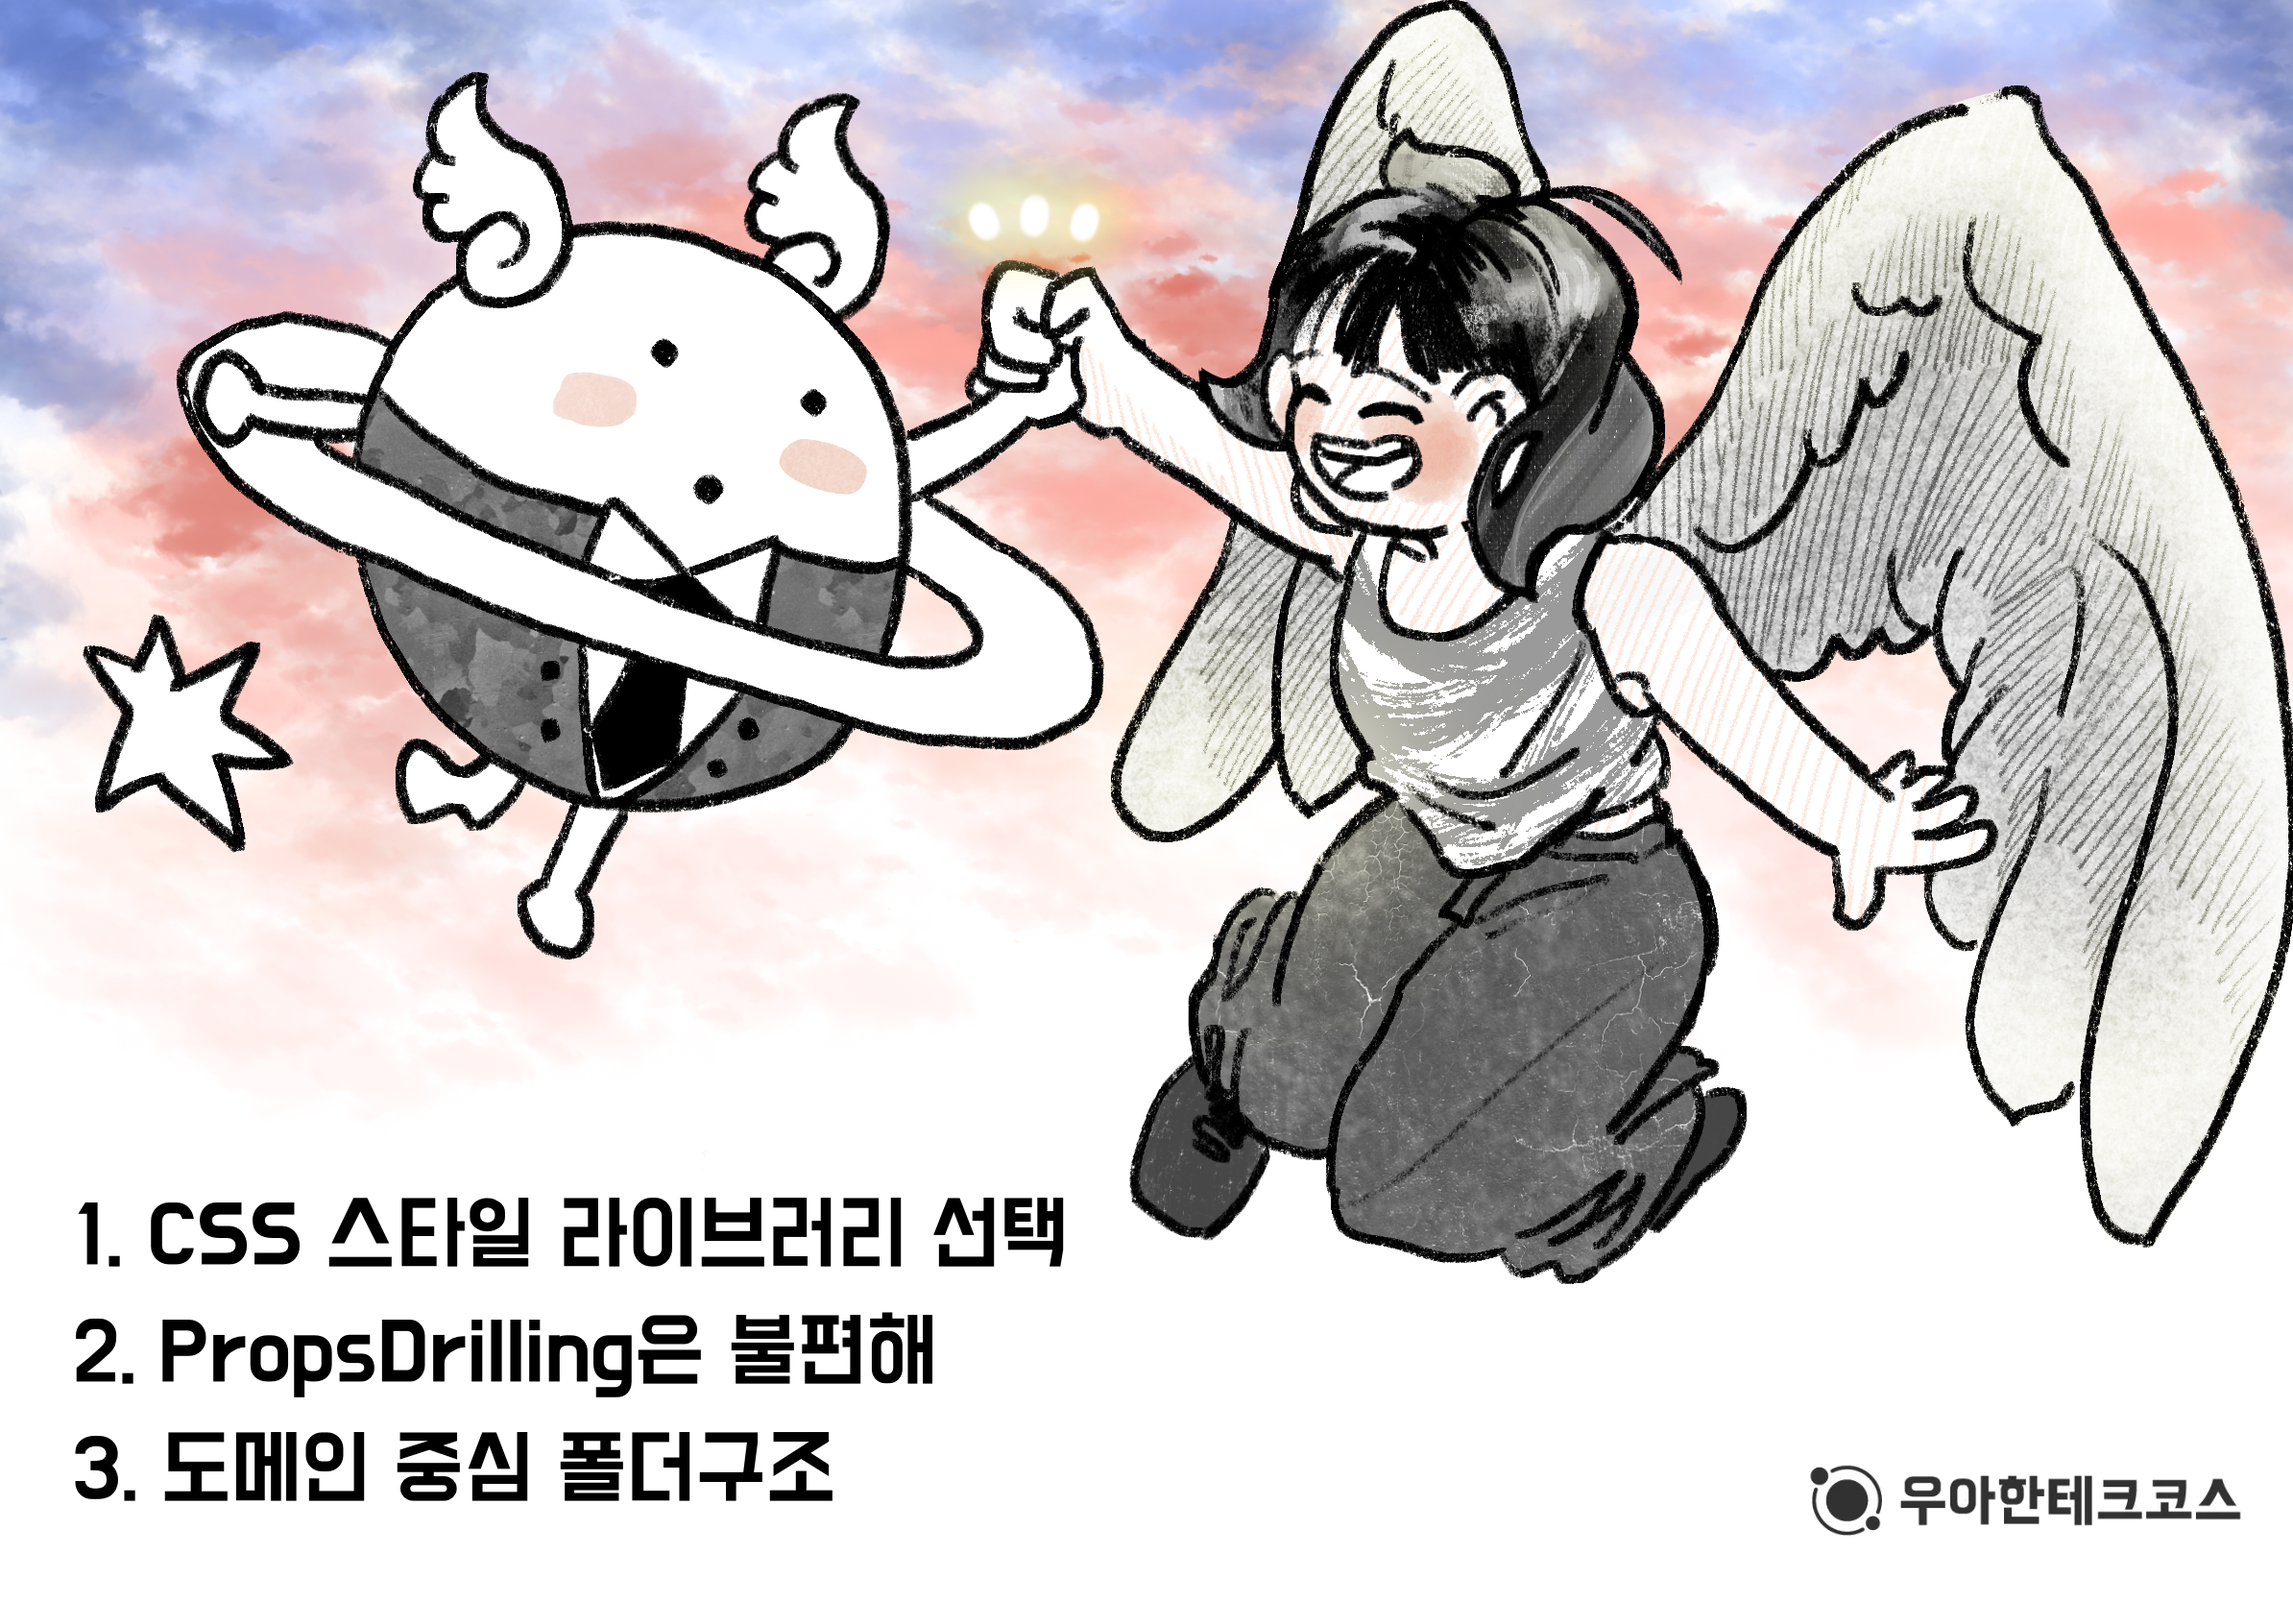
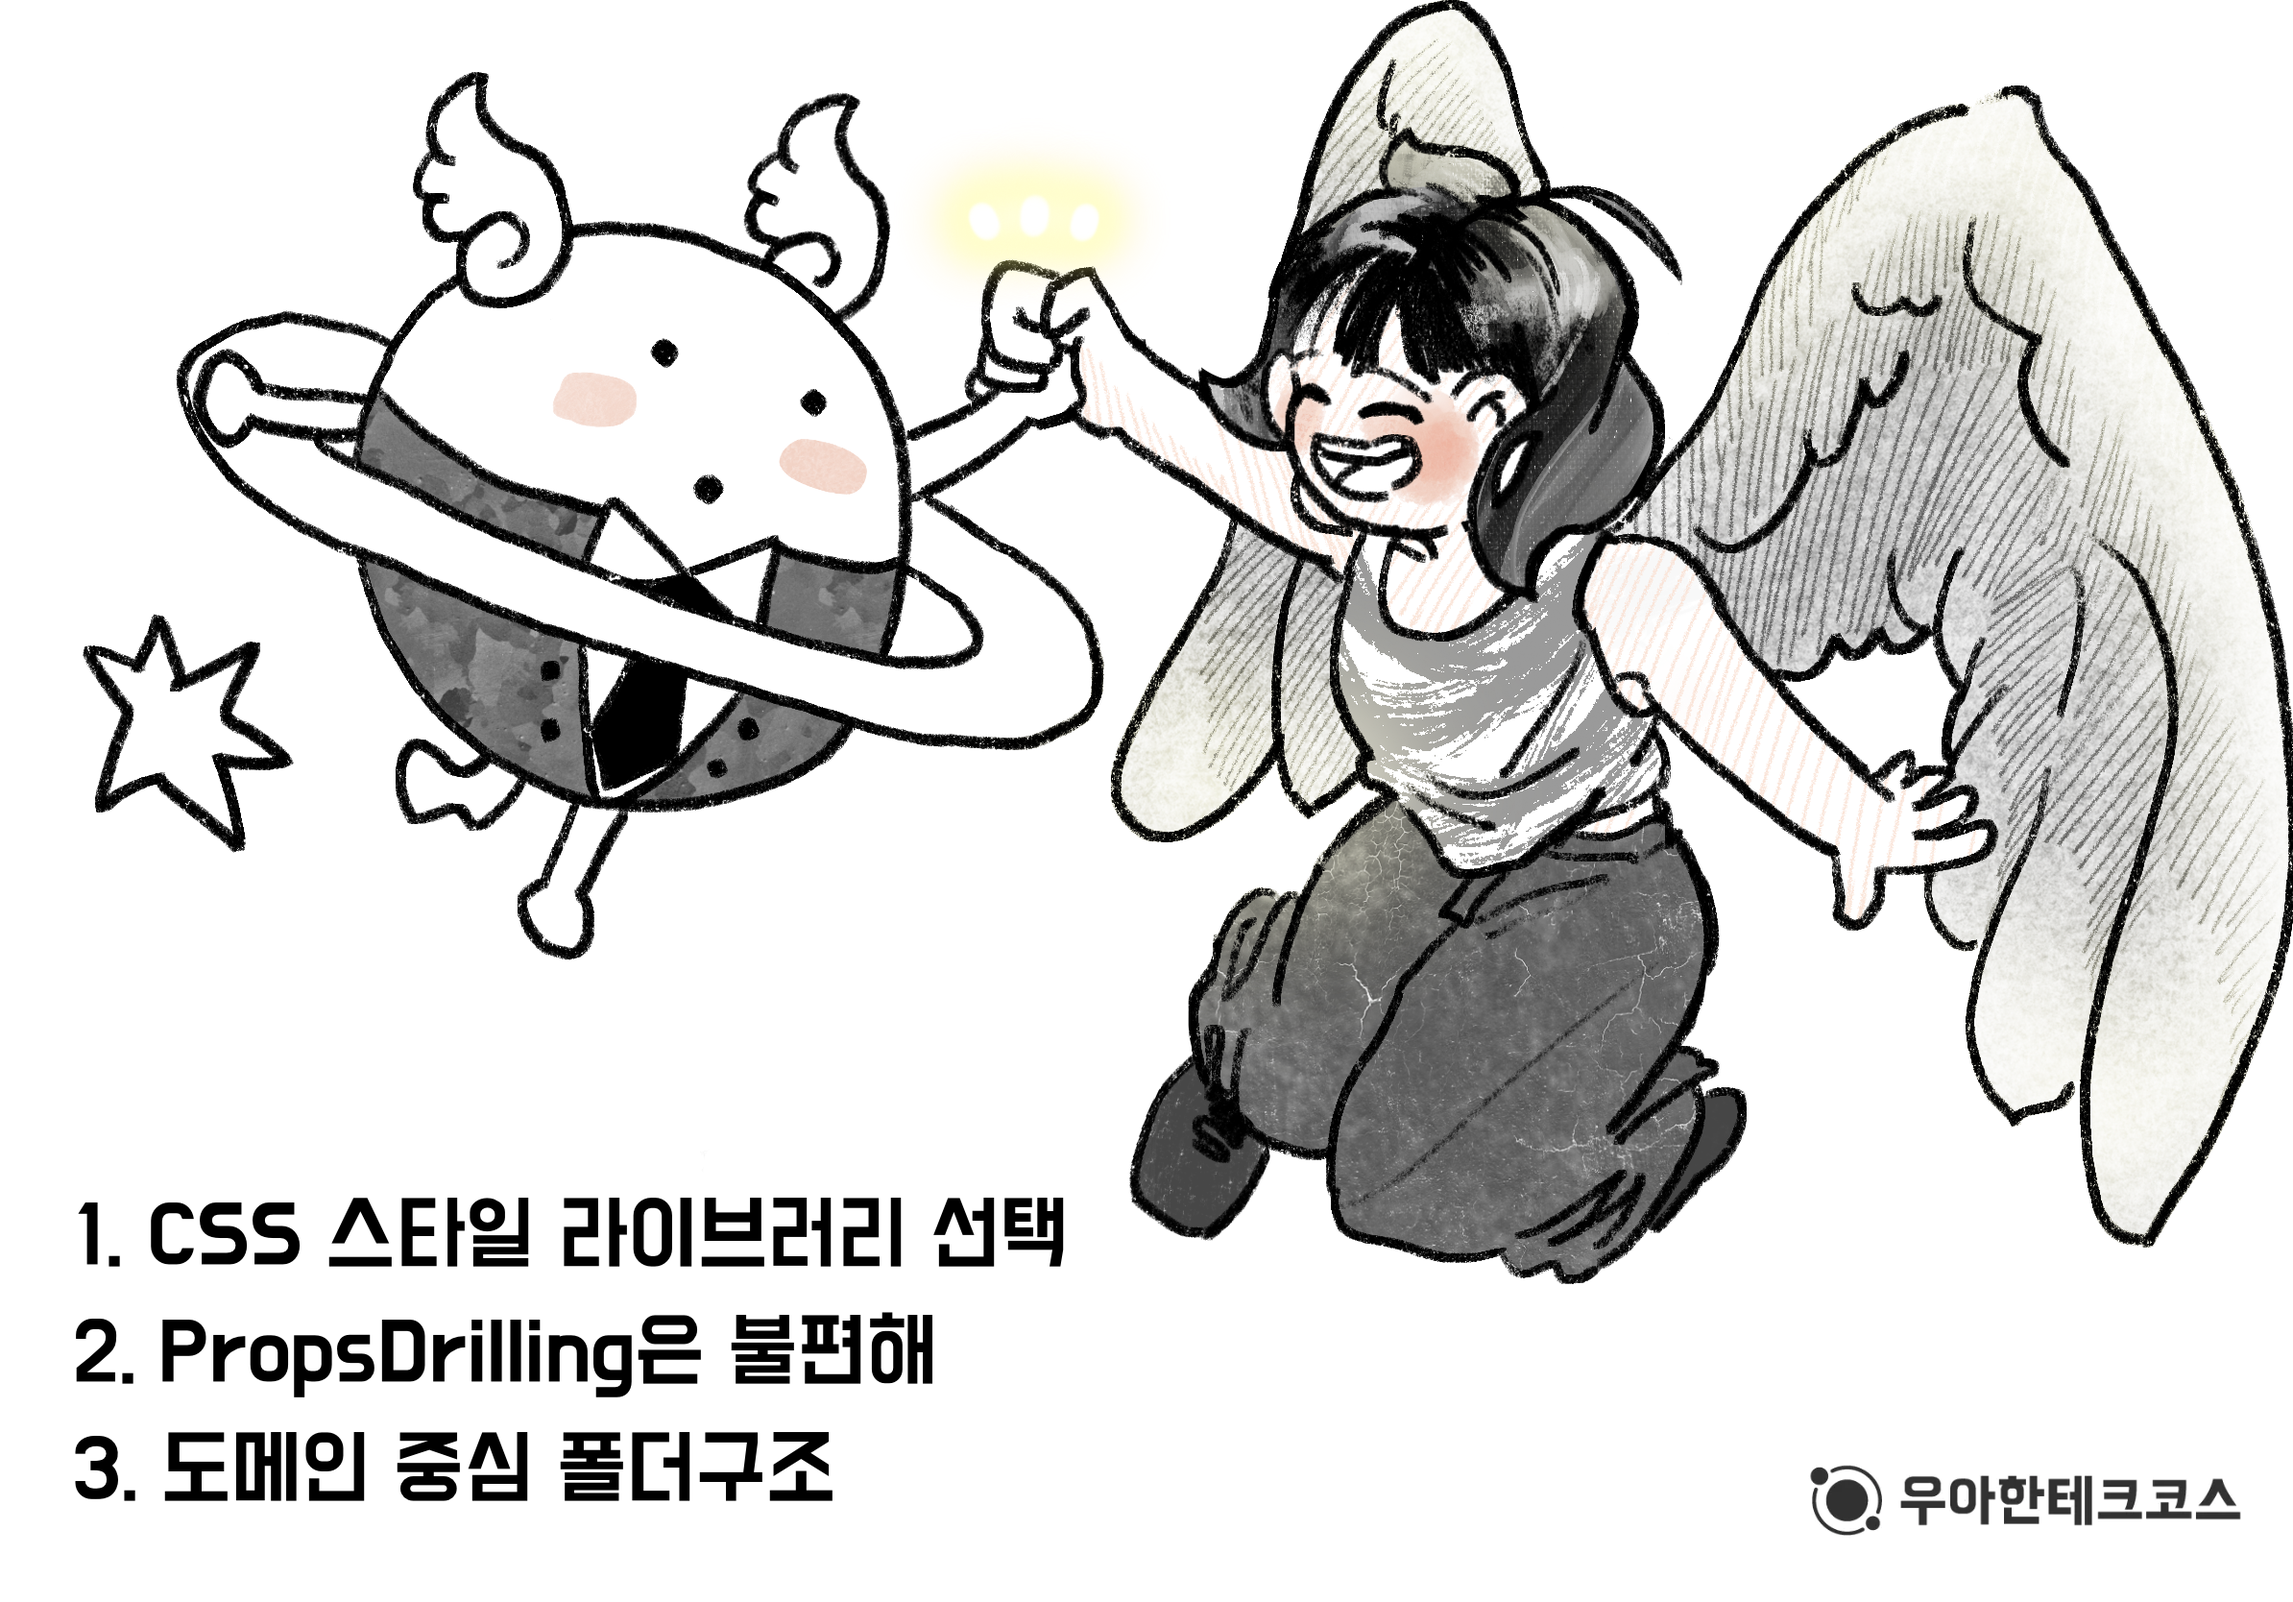
refactor: 썸네일 업데이트

diff --git a/_posts/2025-06-11-woowa-writing.md b/_posts/2025-06-11-woowa-writing.md
@@ -3,7 +3,7 @@ layout: post
 title: "[우테코] level2 / 나를 돌아보는 글쓰기"
 author: kangoll
 categories: [woowaCourse]
-image: assets/images/thumbnail/default-img.png
+image: assets/images/thumbnail/woowa-level2-reflection-writing.png
 ---
 
 > 요약

diff --git a/_posts/2025-06-02-study-note.md b/_posts/2025-06-02-study-note.md
@@ -3,7 +3,7 @@ layout: post
 title: "[우테코] level-2 / 나만의 학습 노트 제작기"
 author: munkyeong
 categories: [woowaCourse]
-image: assets/images/thumbnail/default-img.png
+image: assets/images/thumbnail/woowa-level2-study-note.png
 ---
 
 > 요약

diff --git a/_posts/2025-08-14-reflection-09.md b/_posts/2025-08-14-reflection-09.md
@@ -3,7 +3,7 @@ layout: post
 title: "2025 회고 - 아홉번째 이야기"
 author: munkyeong
 categories: [reflection]
-image: assets/images/thumbnail/default-img.png
+image: assets/images/thumbnail/reflection-09.png
 ---
 
 > 요약
